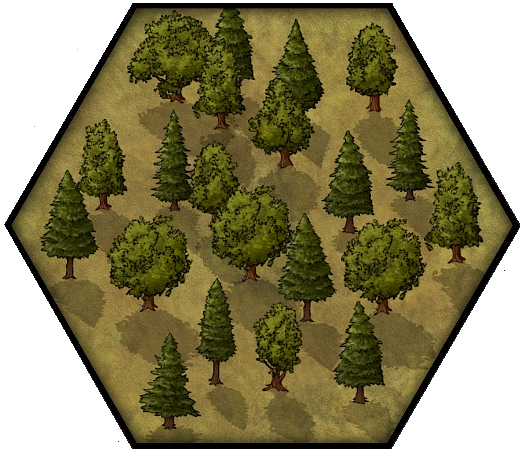
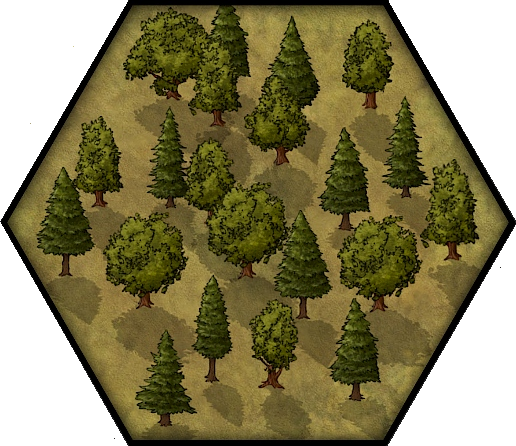
fullscreen with resize

diff --git a/main.py b/main.py
@@ -1,25 +1,33 @@
 import json
-# to create the executable  
+import os
+import sys
+from math import sqrt
+
+# to create the executable
 from kivy.resources import resource_add_path
-import os, sys
+
 if sys.__stdout__ is None or sys.__stderr__ is None:
-     os.environ['KIVY_NO_CONSOLELOG'] = '1'
-     
+    os.environ["KIVY_NO_CONSOLELOG"] = "1"
+
 from kivy.app import App
 from kivy.config import Config
 from kivy.core.window import Window
 from kivy.graphics import Color, Rectangle
+from kivy.uix.button import Button
 from kivy.uix.relativelayout import RelativeLayout
+
 from definition import *
-from hexGridLayout import HexGridLayout
 from hexagon import Hexagon
+from hexGridLayout import HexGridLayout
 
 Config.set("graphics", "fullscreen", "auto")
+# Remove the border and title bar
+Config.set("graphics", "borderless", 1)
 
 from kivy.app import App
 
-class HexApp(App):
 
+class HexApp(App):
     def build(self):
         map_data = self.load_map_data(AppPath.resource_path("map_data.json"))
         self.map_attrs = map_data.get("map", {})
@@ -40,9 +48,15 @@ class HexApp(App):
 
         self.hex_innerRadius = self.hex_radius * F_HEX
 
-        #Window.fullscreen = True
+        Window.fullscreen = True
         Window.maximize()
         self.container = RelativeLayout()
+
+        self.window_width = Window.size[0]
+        self.window_height = Window.size[1]
+        self.hex_radius, self.hex_width, self.hex_height = self.calculateHexSize(
+            self.xRange, self.yRange, self.window_width, self.window_height
+        )
 
         # Create an instance of HexGridLayout with appropriate parameters
         self.grid = HexGridLayout(
@@ -52,10 +66,34 @@ class HexApp(App):
             versus=self.versus,
         )
 
-        #self.grid.pos_hint = {"center_x": 0.5, "center_y": 0.5}
-        self.grid.pos = (0,0)
+        # self.grid.pos_hint = {"center_x": 0.5, "center_y": 0.5}
+        self.grid.pos = (0, 0)
+        self.exit = Button(text="Exit")
+        self.exit.size_hint = (None, None)
+        self.exit.size = (100, 50)
+        self.exit.background_color = (1, 0, 0, 1)
+        self.exit.pos_hint = {"center_x": 0.5, "top": 0.05}
+        self.exit.bind(on_release=self.exit_handlers)
         self.container.add_widget(self.grid)
+        self.container.add_widget(self.exit)
+
         return self.container
+
+    def exit_handlers(self, instance):
+        sys.exit()
+
+    def calculateHexSize(self, num_col, num_row, win_width, win_height):
+        space = float(min(win_width, win_height))
+        num = max(num_col, num_row)
+        hex_size = space / (num * 2.0)
+        if self.versus == HexGridType.HORIZONTAL:
+            hex_width = sqrt(3.0) * hex_size
+            hex_height = 2.0 * hex_size
+        else:
+            hex_width = 2.0 * hex_size
+            hex_height = sqrt(3.0) * hex_size
+
+        return hex_size, hex_width, hex_height
 
     def load_map_data(self, filename):
         try:
@@ -66,7 +104,7 @@ class HexApp(App):
             print(f"Error loading map data: {e}")
             return {}
 
-    def hexClicked_handler(self, instance:Hexagon):
+    def hexClicked_handler(self, instance: Hexagon):
         move = self.grid.calculateMove(instance)
         if move == None:
             return
@@ -114,7 +152,7 @@ class HexApp(App):
 
 if __name__ == "__main__":
     # added to create executable with pyinstaller
-    if hasattr(sys, '_MEIPASS'):
+    if hasattr(sys, "_MEIPASS"):
         resource_add_path((os.path.join(sys._MEIPASS)))
-    #----------------------
+    # ----------------------
     HexApp().run()

diff --git a/arrow.py b/arrow.py
@@ -1,13 +1,15 @@
-from math import pi
 import os
+from math import pi
+
 from kivy.graphics import Color, Rectangle, Rotate
 from kivy.uix.button import Button
 from kivy.uix.relativelayout import RelativeLayout
 
-from definition import HexGridType, AppPath
+from definition import AppPath, HexGridType
+
 
 class Arrow(RelativeLayout):
-    def __init__(self, versus, **kwargs):
+    def __init__(self, versus, arrow_size, **kwargs):
         super().__init__(**kwargs)
         self.versus = versus
 
@@ -17,12 +19,13 @@ class Arrow(RelativeLayout):
             background_normal=os.path.join(path, "freccia.png"),
             background_down=os.path.join(path, "freccia.png"),
             size_hint=(None, None),
+            size=(arrow_size, arrow_size),
         )
-        self.arrow_button.pos_hint = ({"center_x": 0.5, "center_y": 0.5})
+        self.arrow_button.pos_hint = {"center_x": 0.5, "center_y": 0.5}
         # Add the button to the Arrow layout
         self.add_widget(self.arrow_button)
-        #self.coloraSfondo(self.arrow_button, 1., 0.15, 0.15, 1)
-        self.size=self.arrow_button.size
+        # self.coloraSfondo(self.arrow_button, 1., 0.15, 0.15, 1)
+        self.size = self.arrow_button.size
         self.xCoord = -1
         self.yCoord = -1
         self.direction = 0
@@ -33,11 +36,6 @@ class Arrow(RelativeLayout):
 
     def moveArrow(self, center, xCoord, yCoord):
         self.center = center
-        # XXXXXXXXXXXXXXXXXX
-        # this is a correction to be eliminated
-        self.x -= 12.5
-        self.y -= 7.5
-        # ------------------------------
         self.xCoord = xCoord
         self.yCoord = yCoord
 

diff --git a/hexGridLayout.py b/hexGridLayout.py
@@ -1,7 +1,8 @@
 import json
 
-from kivy.uix.floatlayout import FloatLayout
 from kivy.core.window import Window
+from kivy.uix.floatlayout import FloatLayout
+
 from arrow import Arrow
 from definition import *
 from hexagon import Hexagon
@@ -44,7 +45,7 @@ class HexGridLayout(FloatLayout):
 
         # self.pos_hint = {"center_x": 0.5, "center_y": 0.5}
 
-        self.arrow = Arrow(self.versus)
+        self.arrow = Arrow(self.versus, self.hex_radius / F_HEX)
         fileName = AppPath.resource_path("map_data.json")
         mapData = self.load_map_data(fileName)
         self.default_hex = mapData.get("default_hex")
@@ -115,8 +116,7 @@ class HexGridLayout(FloatLayout):
                     )
                 else:
                     hexagon.pos = (
-                        x * (self.hex_radius * 1.5)
-                        + xMargin,
+                        x * (self.hex_radius * 1.5) + xMargin,
                         y * (self.hex_innerRadius * 2.0)
                         + ((x + 1) % 2 * self.hex_innerRadius)
                         - (self.hex_radius - self.hex_innerRadius)

diff --git a/hexagon.py b/hexagon.py
@@ -60,7 +60,7 @@ class Hexagon(RelativeLayout):
             # Construct the path in a cross-platform way
             path = AppPath.resource_path("images")
             fileName = os.path.join(path, self.terrain)
-            
+
             self.imageTexture = Image(fileName).texture
             # Ensure the texture repeats instead of stretching
             self.imageTexture.wrap = "repeat"
